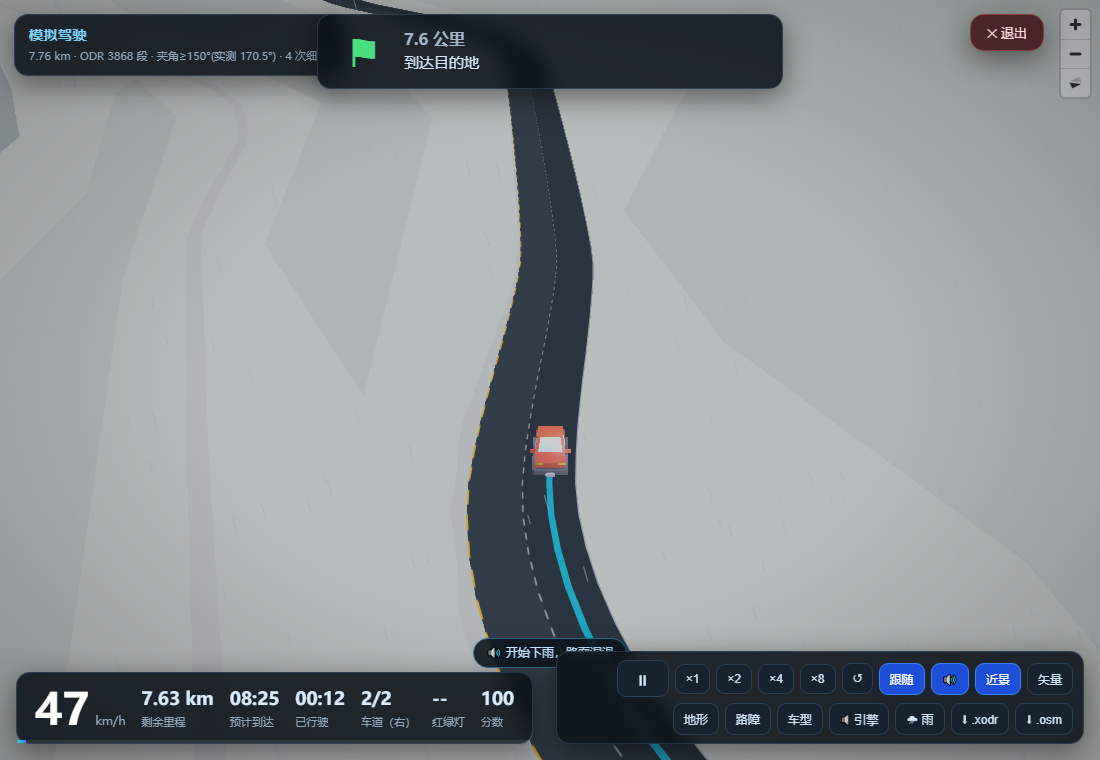
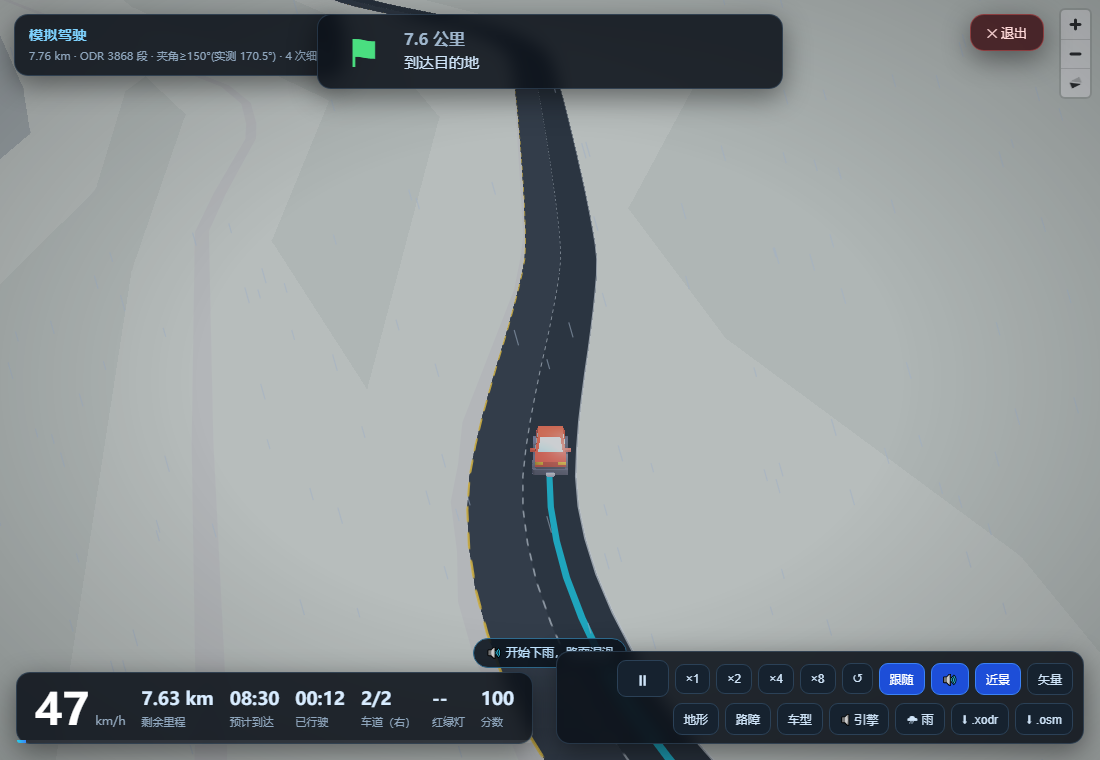
Add initial analysis page screenshot

diff --git a/README.md b/README.md
@@ -25,6 +25,10 @@
 
 ## 页面截图
 
+**初始分析页**
+
+![初始分析页](docs/screenshots/initial-analysis.png)
+
 **自动驾驶路线回放**
 
 ![自动驾驶页面](docs/screenshots/automatic-driving.png)
